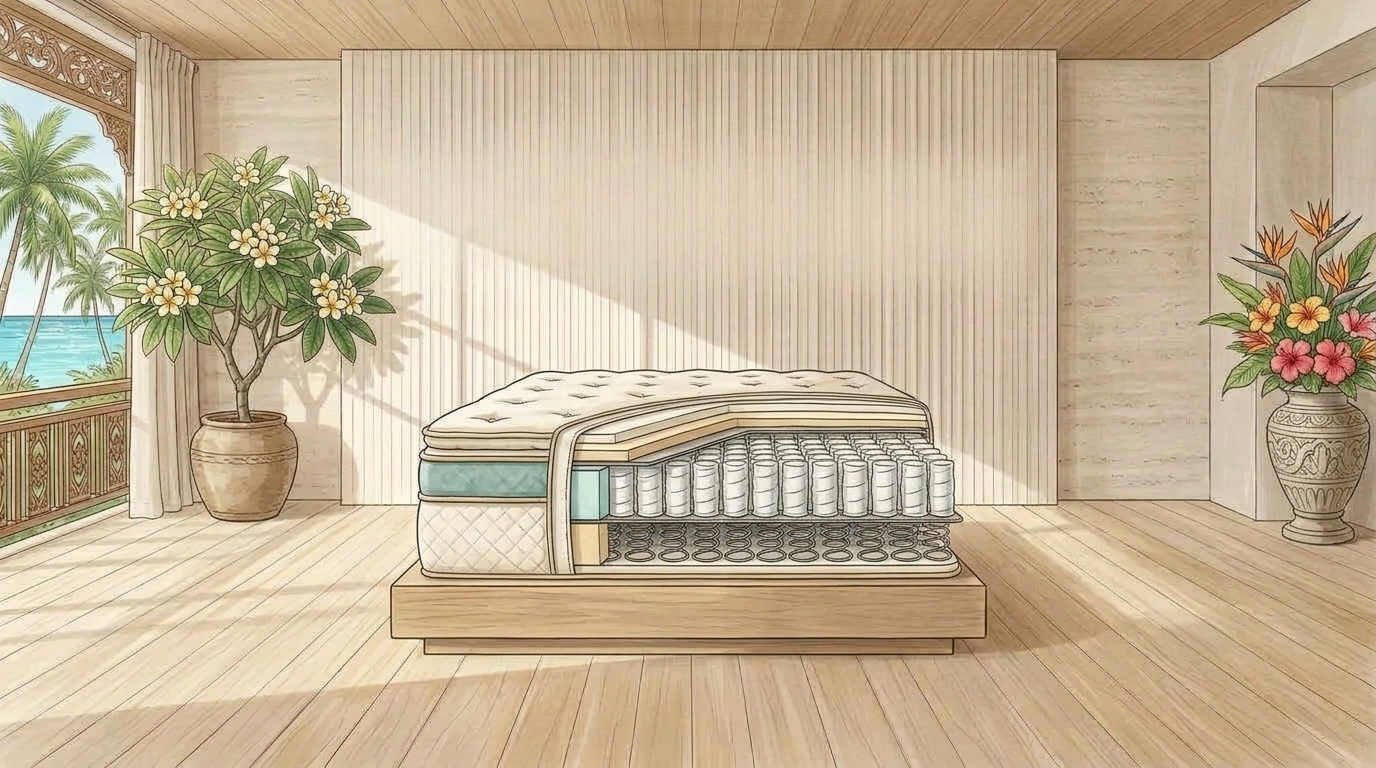
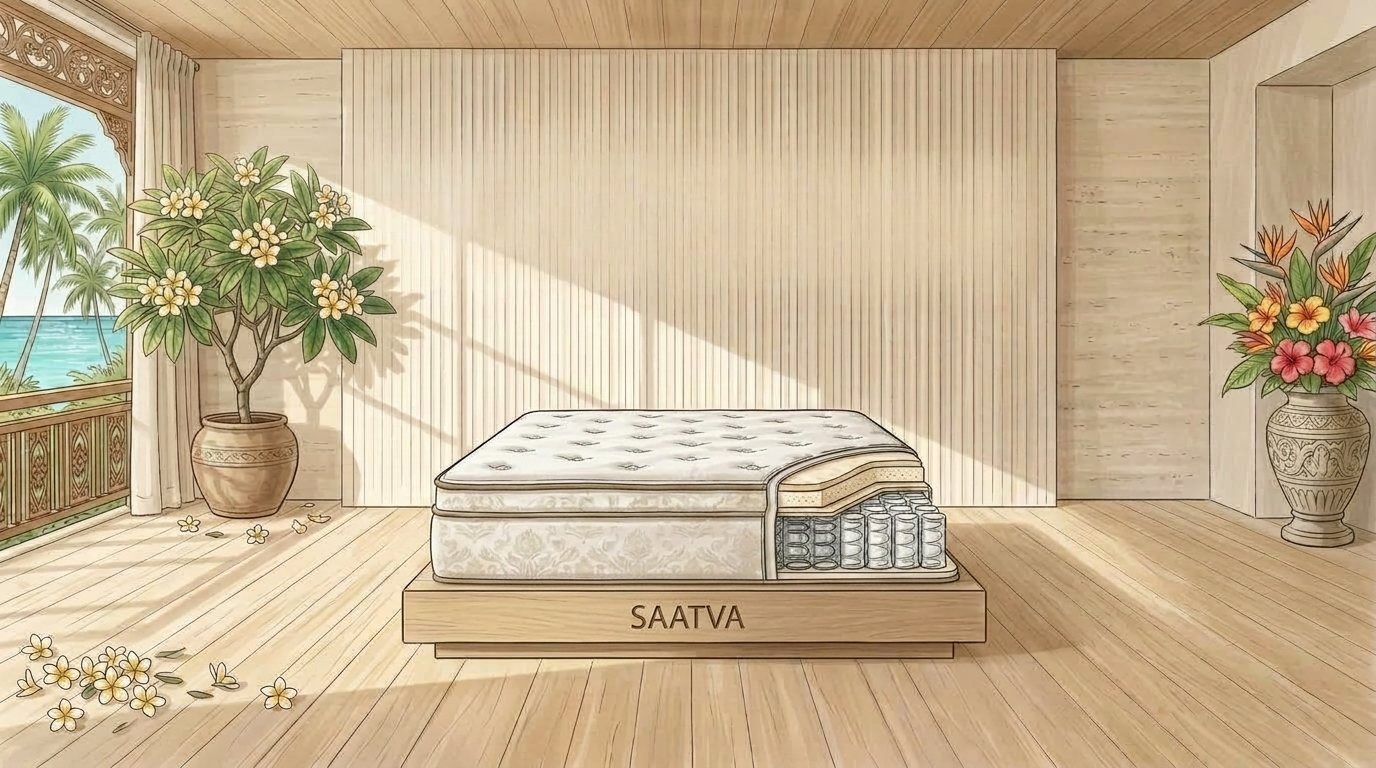
Update Saatva Classic calibrated illustration and add Section 4 accessory watercolor illustrations

diff --git a/saatva-brand-page.html b/saatva-brand-page.html
@@ -777,6 +777,24 @@
       transform: translateY(-3px);
       box-shadow: var(--shadow-md);
     }
+    .m-card-img-wrap {
+      aspect-ratio: 16 / 9;
+      border-radius: var(--radius-md);
+      overflow: hidden;
+      margin-bottom: 16px;
+      border: 1px solid var(--line);
+      background: var(--canvas-subtle);
+    }
+    .m-card-img-wrap img {
+      width: 100%;
+      height: 100%;
+      object-fit: cover;
+      display: block;
+      transition: transform 0.3s ease;
+    }
+    .m-product-card:hover .m-card-img-wrap img {
+      transform: scale(1.03);
+    }
     .m-card-badge-line {
       display: flex;
       align-items: center;
@@ -2892,6 +2910,9 @@
           <!-- 1. Graphite Topper -->
           <article class="m-product-card">
             <div>
+              <div class="m-card-img-wrap">
+                <img src="assets/illustrations/saatva_topper_graphite_watercolor.jpg" alt="Saatva Graphite Memory Foam Topper deconstructed architectural watercolor illustration" loading="lazy">
+              </div>
               <div class="m-card-badge-line">
                 <span class="m-card-type-tag">Cooling Topper</span>
               </div>
@@ -2912,6 +2933,9 @@
           <!-- 2. Latex Topper -->
           <article class="m-product-card">
             <div>
+              <div class="m-card-img-wrap">
+                <img src="assets/illustrations/saatva_topper_latex_watercolor.jpg" alt="Saatva Natural Latex Topper deconstructed architectural watercolor illustration" loading="lazy">
+              </div>
               <div class="m-card-badge-line">
                 <span class="m-card-type-tag">Natural Latex</span>
               </div>
@@ -2932,6 +2956,9 @@
           <!-- 3. High Density Foam Topper -->
           <article class="m-product-card">
             <div>
+              <div class="m-card-img-wrap">
+                <img src="assets/illustrations/saatva_topper_foam_watercolor.jpg" alt="Saatva High-Density Foam Topper deconstructed architectural watercolor illustration" loading="lazy">
+              </div>
               <div class="m-card-badge-line">
                 <span class="m-card-type-tag">Budget Contour</span>
               </div>
@@ -2952,6 +2979,9 @@
           <!-- 4. Mattress Protector -->
           <article class="m-product-card">
             <div>
+              <div class="m-card-img-wrap">
+                <img src="assets/illustrations/saatva_protector_watercolor.jpg" alt="Saatva Waterproof Mattress Protector deconstructed architectural watercolor illustration" loading="lazy">
+              </div>
               <div class="m-card-badge-line">
                 <span class="m-card-type-tag">Spill & Fluid Proof</span>
               </div>
@@ -2972,6 +3002,9 @@
           <!-- 5. Adjustable Base Plus -->
           <article class="m-product-card">
             <div>
+              <div class="m-card-img-wrap">
+                <img src="assets/illustrations/saatva_adjustable_base_watercolor.jpg" alt="Saatva Adjustable Base Plus deconstructed architectural watercolor illustration" loading="lazy">
+              </div>
               <div class="m-card-badge-line">
                 <span class="m-card-type-tag">Zero-Gravity Base</span>
               </div>
@@ -2992,6 +3025,9 @@
           <!-- 6. Foundation -->
           <article class="m-product-card">
             <div>
+              <div class="m-card-img-wrap">
+                <img src="assets/illustrations/saatva_foundation_watercolor.jpg" alt="Saatva Foundation solid spruce wood deconstructed architectural watercolor illustration" loading="lazy">
+              </div>
               <div class="m-card-badge-line">
                 <span class="m-card-type-tag">Solid Spruce Base</span>
               </div>

diff --git a/saatva.html b/saatva.html
@@ -777,6 +777,24 @@
       transform: translateY(-3px);
       box-shadow: var(--shadow-md);
     }
+    .m-card-img-wrap {
+      aspect-ratio: 16 / 9;
+      border-radius: var(--radius-md);
+      overflow: hidden;
+      margin-bottom: 16px;
+      border: 1px solid var(--line);
+      background: var(--canvas-subtle);
+    }
+    .m-card-img-wrap img {
+      width: 100%;
+      height: 100%;
+      object-fit: cover;
+      display: block;
+      transition: transform 0.3s ease;
+    }
+    .m-product-card:hover .m-card-img-wrap img {
+      transform: scale(1.03);
+    }
     .m-card-badge-line {
       display: flex;
       align-items: center;
@@ -2892,6 +2910,9 @@
           <!-- 1. Graphite Topper -->
           <article class="m-product-card">
             <div>
+              <div class="m-card-img-wrap">
+                <img src="assets/illustrations/saatva_topper_graphite_watercolor.jpg" alt="Saatva Graphite Memory Foam Topper deconstructed architectural watercolor illustration" loading="lazy">
+              </div>
               <div class="m-card-badge-line">
                 <span class="m-card-type-tag">Cooling Topper</span>
               </div>
@@ -2912,6 +2933,9 @@
           <!-- 2. Latex Topper -->
           <article class="m-product-card">
             <div>
+              <div class="m-card-img-wrap">
+                <img src="assets/illustrations/saatva_topper_latex_watercolor.jpg" alt="Saatva Natural Latex Topper deconstructed architectural watercolor illustration" loading="lazy">
+              </div>
               <div class="m-card-badge-line">
                 <span class="m-card-type-tag">Natural Latex</span>
               </div>
@@ -2932,6 +2956,9 @@
           <!-- 3. High Density Foam Topper -->
           <article class="m-product-card">
             <div>
+              <div class="m-card-img-wrap">
+                <img src="assets/illustrations/saatva_topper_foam_watercolor.jpg" alt="Saatva High-Density Foam Topper deconstructed architectural watercolor illustration" loading="lazy">
+              </div>
               <div class="m-card-badge-line">
                 <span class="m-card-type-tag">Budget Contour</span>
               </div>
@@ -2952,6 +2979,9 @@
           <!-- 4. Mattress Protector -->
           <article class="m-product-card">
             <div>
+              <div class="m-card-img-wrap">
+                <img src="assets/illustrations/saatva_protector_watercolor.jpg" alt="Saatva Waterproof Mattress Protector deconstructed architectural watercolor illustration" loading="lazy">
+              </div>
               <div class="m-card-badge-line">
                 <span class="m-card-type-tag">Spill & Fluid Proof</span>
               </div>
@@ -2972,6 +3002,9 @@
           <!-- 5. Adjustable Base Plus -->
           <article class="m-product-card">
             <div>
+              <div class="m-card-img-wrap">
+                <img src="assets/illustrations/saatva_adjustable_base_watercolor.jpg" alt="Saatva Adjustable Base Plus deconstructed architectural watercolor illustration" loading="lazy">
+              </div>
               <div class="m-card-badge-line">
                 <span class="m-card-type-tag">Zero-Gravity Base</span>
               </div>
@@ -2992,6 +3025,9 @@
           <!-- 6. Foundation -->
           <article class="m-product-card">
             <div>
+              <div class="m-card-img-wrap">
+                <img src="assets/illustrations/saatva_foundation_watercolor.jpg" alt="Saatva Foundation solid spruce wood deconstructed architectural watercolor illustration" loading="lazy">
+              </div>
               <div class="m-card-badge-line">
                 <span class="m-card-type-tag">Solid Spruce Base</span>
               </div>
